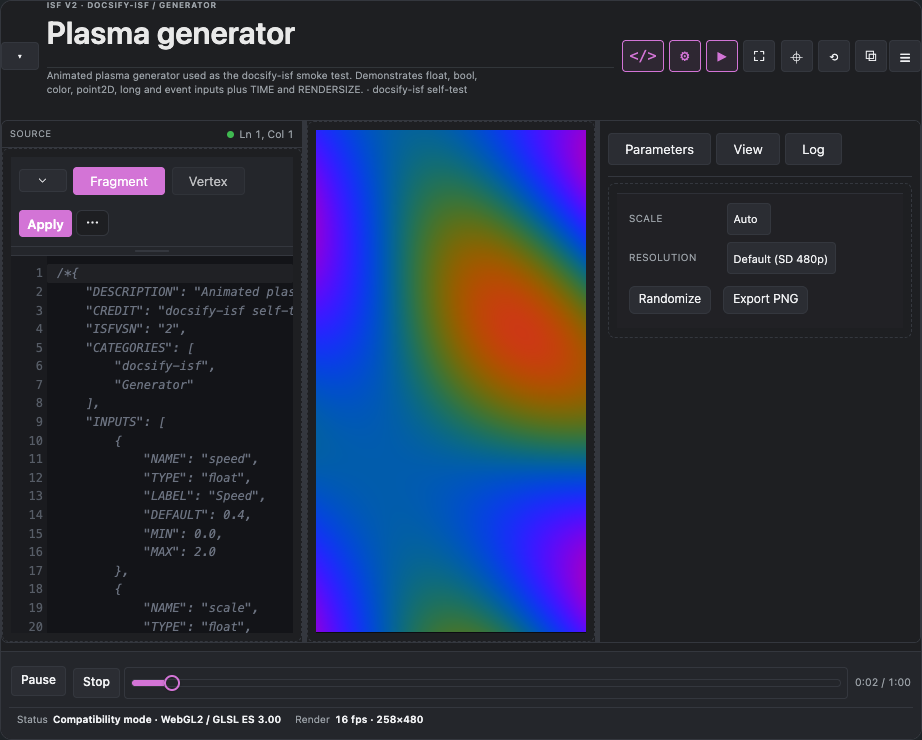
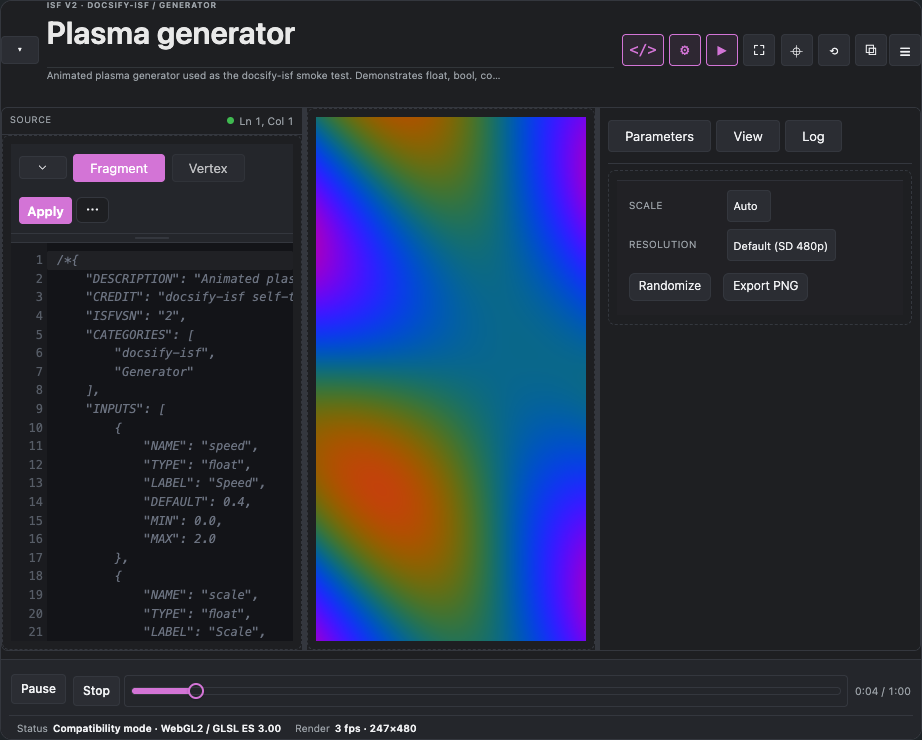
perf(ui): reclaim chrome space and document runtime budgets

diff --git a/src/plugin.src.js b/src/plugin.src.js
@@ -1,5 +1,5 @@
 /*!
- * docsify-isf v1.40.1
+ * docsify-isf v1.40.2
  * Interactive Shader Format (ISF) viewer for Docsify.
  *
  * Converts markdown links to `.fs` files into interactive WebGL viewers with
@@ -48,7 +48,7 @@
     /* @isf-core:inject — the vendored kernel bundle and adapter are generated here by tools/build.mjs */
     /* @pupitre-ui:inject — the vendored PUI renderer, ISF adapter and CSS are generated here by tools/build.mjs */
 
-    var VERSION = "1.40.1";
+    var VERSION = "1.40.2";
     var VIEWER_SEQ = 0;
     var SCRIPT_SRC = (typeof document !== "undefined" && document.currentScript && document.currentScript.src) || "";
     var PUI_BASE = "";
@@ -3578,7 +3578,7 @@
             ".isf-workbench .isf-editor-wrap{height:100%;min-height:0;display:flex;flex-direction:column}",
             ".isf-workbench .isf-editor{height:auto!important;min-height:0;flex:1 1 auto}",
             ".isf-workbench .isf-panel-intro{display:none!important}",
-            ".isf-workbench .pui-workbench-description{white-space:normal;display:-webkit-box;-webkit-line-clamp:2;-webkit-box-orient:vertical;overflow:hidden;max-width:72ch}",
+            ".isf-workbench .pui-workbench-description{display:block;white-space:nowrap;overflow:hidden;text-overflow:ellipsis;max-width:72ch}",
             ".isf-workbench .pui-workbench-titlebar-toggle{min-width:28px;min-height:28px;font-size:12px}",
             ".isf-workbench .isf-params{padding:0;background:transparent}",
             ".isf-workbench .isf-editor-head{min-height:32px}",
@@ -3815,7 +3815,7 @@
             ".isf-workbench .pui-workbench-toggle,.isf-workbench .pui-workbench-action,.isf-workbench .pui-header-menu-trigger{min-width:32px;min-height:32px;padding:4px 6px!important}",
             ".isf-workbench .pui-workbench-toggle{order:1}.isf-workbench .pui-workbench-action{order:2}.isf-workbench .pui-header-menu{order:3;margin-inline-end:0;padding-inline-end:0;border-inline-end:0}",
             ".isf-workbench .pui-workbench-tools{gap:2px;align-items:center}",
-            ".isf-workbench .pui-workbench-pane.is-bottom{max-height:96px!important}",
+            ".isf-workbench .pui-workbench-pane.is-bottom{max-height:80px!important}",
             ".isf-workbench .pui-transport.is-compact{min-height:32px}",
             ".isf-workbench .pui-transport.is-compact .pui-transport-head .pui-button{min-height:30px;padding:3px 9px}",
             ".isf-workbench .pui-transport.is-compact .pui-transport-time{font-size:.66rem}",
@@ -3825,7 +3825,7 @@
             ".isf-workbench .pui-transport-head h4{display:none!important}",
             ".isf-workbench .pui-transport-head{min-height:32px;gap:6px}",
             ".isf-workbench .pui-workbench-eyebrow{margin-bottom:1px}",
-            "@media (max-width:600px){.isf-workbench .pui-workbench-toggle-label{display:none!important}.isf-workbench .pui-workbench-toggle{padding:4px 7px!important}.isf-workbench .pui-workbench-toggle-icon{font-size:15px;opacity:1}.isf-workbench .pui-workbench-pane.is-bottom{max-height:118px!important}.isf-workbench .pui-transport-loop,.isf-workbench .pui-transport select{display:none}.isf-workbench .pui-transport-controls{gap:5px}.isf-workbench .pui-transport-controls input[type=range]{flex:1 1 90px}.isf-workbench .pui-statusbar{font-size:.68rem}}",
+            "@media (max-width:600px){.isf-workbench .pui-workbench-toggle-label{display:none!important}.isf-workbench .pui-workbench-toggle{padding:4px 7px!important}.isf-workbench .pui-workbench-toggle-icon{font-size:15px;opacity:1}.isf-workbench .pui-workbench-pane.is-bottom{max-height:96px!important}.isf-workbench .pui-transport-loop,.isf-workbench .pui-transport select{display:none}.isf-workbench .pui-transport-controls{gap:5px}.isf-workbench .pui-transport-controls input[type=range]{flex:1 1 90px}.isf-workbench .pui-statusbar{font-size:.68rem}}",
             ".isf-workbench .pui-workbench-pane.is-left .pui-workbench-pane-title{display:flex;align-items:center;gap:6px}",
             ".isf-source-meta{display:none;margin-inline-start:auto;align-items:center;gap:5px;text-transform:none;letter-spacing:0;font-size:.66rem;color:var(--isf-muted);white-space:nowrap}",
             ".isf-editor-actions .isf-apply{background:var(--isf-accent);border-color:var(--isf-accent);color:var(--isf-accent-contrast);font-weight:600}",
@@ -4974,7 +4974,9 @@
                 if (moreMenuUI) { try { moreMenuUI.destroy(); } catch (error) { /* ignore */ } }
             });
         }
-        loadPUI().then(mountEditorMoreMenu, function () { /* keep Apply available */ });
+        // Mount the More menu only when the Source pane is first opened; a
+        // page with many viewers otherwise pays for hidden PUI menus.
+        loadPUI().then(function () { /* assets ready; lazy mount on Source */ }, function () { /* keep Apply available */ });
         var selectionHandler = function () {
             if (document.activeElement === textarea) scheduleCaret();
         };
@@ -5155,6 +5157,7 @@
             applyFontSize: applyFontSize,
             value: function () { return textarea.value; },
             setStatus: setStatus,
+            mountMoreMenu: function () { mountEditorMoreMenu(); },
             toggleToolbar: function () { setToolbarCollapsed(!toolbarCollapsed, true); },
             folded: function () { return toolbarCollapsed; },
             refreshFold: refreshFold,
@@ -6113,9 +6116,6 @@
             status.className = "isf-status" + (viewer.statusText ? "" : " isf-hidden") +
                 (kind ? " is-" + kind : "");
             statusText.textContent = viewer.statusText;
-            if (viewer.puiWorkbench) {
-                try { viewer.puiWorkbench.ui.apply(); } catch (error) { /* ignore */ }
-            }
             if (viewer.applyPUIWorkbench) viewer.applyPUIWorkbench();
         };
         viewer.warn = function (message) {
@@ -6218,6 +6218,7 @@
                 window.__isfActiveSourceEditor = viewer;
                 viewer.editorOpen = true;
                 viewer.inspectorImport = false;
+                if (viewer.editor && viewer.editor.mountMoreMenu) viewer.editor.mountMoreMenu();
                 setEditorPanel();
                 viewer.applyPUIWorkbench();
                 focusEditor();
@@ -6861,7 +6862,7 @@
                         left: {title: "Source", icon: "</>", width: {initial: 300, min: 260, max: 520}, collapsible: true, open_bind: "/isf/ui/editorOpen"},
                         stage: {title: "Preview", fit: "contain", min_width: 280},
                         right: {title: "Parameters", icon: "⚙", width: {initial: 320, min: 280, max: 560}, collapsible: true, tabs: ["Parameters", "View", "Log"], open_bind: "/isf/ui/inspectorOpen"},
-                        bottom: {title: "Playback", icon: "▶", height: 96, collapsible: false, open_bind: "/isf/ui/playbackOpen"}
+                        bottom: {title: "Playback", icon: "▶", height: 80, collapsible: false, open_bind: "/isf/ui/playbackOpen"}
                     },
                     sections: [
                         {
@@ -6917,8 +6918,12 @@
         };
 
         viewer.applyPUIWorkbench = function () {
-            if (!viewer.puiWorkbench) return;
-            try { viewer.puiWorkbench.ui.apply(); } catch (error) { /* ignore */ }
+            if (!viewer.puiWorkbench || viewer._puiWorkbenchFrame) return;
+            viewer._puiWorkbenchFrame = requestAnimationFrame(function () {
+                viewer._puiWorkbenchFrame = 0;
+                if (viewer.disposed || !viewer.puiWorkbench) return;
+                try { viewer.puiWorkbench.ui.apply(); } catch (error) { /* ignore */ }
+            });
         };
 
         viewer.mountWorkbench = function () {

diff --git a/docsify-isf.js b/docsify-isf.js
@@ -1,5 +1,5 @@
 /*!
- * docsify-isf v1.40.1
+ * docsify-isf v1.40.2
  * Interactive Shader Format (ISF) viewer for Docsify.
  *
  * Converts markdown links to `.fs` files into interactive WebGL viewers with
@@ -3884,7 +3884,7 @@
     }
     /* @pupitre-ui:inject — the vendored PUI renderer, ISF adapter and CSS are generated here by tools/build.mjs */
 
-    var VERSION = "1.40.1";
+    var VERSION = "1.40.2";
     var VIEWER_SEQ = 0;
     var SCRIPT_SRC = (typeof document !== "undefined" && document.currentScript && document.currentScript.src) || "";
     var PUI_BASE = "";
@@ -5458,7 +5458,7 @@
             ".isf-workbench .isf-editor-wrap{height:100%;min-height:0;display:flex;flex-direction:column}",
             ".isf-workbench .isf-editor{height:auto!important;min-height:0;flex:1 1 auto}",
             ".isf-workbench .isf-panel-intro{display:none!important}",
-            ".isf-workbench .pui-workbench-description{white-space:normal;display:-webkit-box;-webkit-line-clamp:2;-webkit-box-orient:vertical;overflow:hidden;max-width:72ch}",
+            ".isf-workbench .pui-workbench-description{display:block;white-space:nowrap;overflow:hidden;text-overflow:ellipsis;max-width:72ch}",
             ".isf-workbench .pui-workbench-titlebar-toggle{min-width:28px;min-height:28px;font-size:12px}",
             ".isf-workbench .isf-params{padding:0;background:transparent}",
             ".isf-workbench .isf-editor-head{min-height:32px}",
@@ -5695,7 +5695,7 @@
             ".isf-workbench .pui-workbench-toggle,.isf-workbench .pui-workbench-action,.isf-workbench .pui-header-menu-trigger{min-width:32px;min-height:32px;padding:4px 6px!important}",
             ".isf-workbench .pui-workbench-toggle{order:1}.isf-workbench .pui-workbench-action{order:2}.isf-workbench .pui-header-menu{order:3;margin-inline-end:0;padding-inline-end:0;border-inline-end:0}",
             ".isf-workbench .pui-workbench-tools{gap:2px;align-items:center}",
-            ".isf-workbench .pui-workbench-pane.is-bottom{max-height:96px!important}",
+            ".isf-workbench .pui-workbench-pane.is-bottom{max-height:80px!important}",
             ".isf-workbench .pui-transport.is-compact{min-height:32px}",
             ".isf-workbench .pui-transport.is-compact .pui-transport-head .pui-button{min-height:30px;padding:3px 9px}",
             ".isf-workbench .pui-transport.is-compact .pui-transport-time{font-size:.66rem}",
@@ -5705,7 +5705,7 @@
             ".isf-workbench .pui-transport-head h4{display:none!important}",
             ".isf-workbench .pui-transport-head{min-height:32px;gap:6px}",
             ".isf-workbench .pui-workbench-eyebrow{margin-bottom:1px}",
-            "@media (max-width:600px){.isf-workbench .pui-workbench-toggle-label{display:none!important}.isf-workbench .pui-workbench-toggle{padding:4px 7px!important}.isf-workbench .pui-workbench-toggle-icon{font-size:15px;opacity:1}.isf-workbench .pui-workbench-pane.is-bottom{max-height:118px!important}.isf-workbench .pui-transport-loop,.isf-workbench .pui-transport select{display:none}.isf-workbench .pui-transport-controls{gap:5px}.isf-workbench .pui-transport-controls input[type=range]{flex:1 1 90px}.isf-workbench .pui-statusbar{font-size:.68rem}}",
+            "@media (max-width:600px){.isf-workbench .pui-workbench-toggle-label{display:none!important}.isf-workbench .pui-workbench-toggle{padding:4px 7px!important}.isf-workbench .pui-workbench-toggle-icon{font-size:15px;opacity:1}.isf-workbench .pui-workbench-pane.is-bottom{max-height:96px!important}.isf-workbench .pui-transport-loop,.isf-workbench .pui-transport select{display:none}.isf-workbench .pui-transport-controls{gap:5px}.isf-workbench .pui-transport-controls input[type=range]{flex:1 1 90px}.isf-workbench .pui-statusbar{font-size:.68rem}}",
             ".isf-workbench .pui-workbench-pane.is-left .pui-workbench-pane-title{display:flex;align-items:center;gap:6px}",
             ".isf-source-meta{display:none;margin-inline-start:auto;align-items:center;gap:5px;text-transform:none;letter-spacing:0;font-size:.66rem;color:var(--isf-muted);white-space:nowrap}",
             ".isf-editor-actions .isf-apply{background:var(--isf-accent);border-color:var(--isf-accent);color:var(--isf-accent-contrast);font-weight:600}",
@@ -6854,7 +6854,9 @@
                 if (moreMenuUI) { try { moreMenuUI.destroy(); } catch (error) { /* ignore */ } }
             });
         }
-        loadPUI().then(mountEditorMoreMenu, function () { /* keep Apply available */ });
+        // Mount the More menu only when the Source pane is first opened; a
+        // page with many viewers otherwise pays for hidden PUI menus.
+        loadPUI().then(function () { /* assets ready; lazy mount on Source */ }, function () { /* keep Apply available */ });
         var selectionHandler = function () {
             if (document.activeElement === textarea) scheduleCaret();
         };
@@ -7035,6 +7037,7 @@
             applyFontSize: applyFontSize,
             value: function () { return textarea.value; },
             setStatus: setStatus,
+            mountMoreMenu: function () { mountEditorMoreMenu(); },
             toggleToolbar: function () { setToolbarCollapsed(!toolbarCollapsed, true); },
             folded: function () { return toolbarCollapsed; },
             refreshFold: refreshFold,
@@ -7993,9 +7996,6 @@
             status.className = "isf-status" + (viewer.statusText ? "" : " isf-hidden") +
                 (kind ? " is-" + kind : "");
             statusText.textContent = viewer.statusText;
-            if (viewer.puiWorkbench) {
-                try { viewer.puiWorkbench.ui.apply(); } catch (error) { /* ignore */ }
-            }
             if (viewer.applyPUIWorkbench) viewer.applyPUIWorkbench();
         };
         viewer.warn = function (message) {
@@ -8098,6 +8098,7 @@
                 window.__isfActiveSourceEditor = viewer;
                 viewer.editorOpen = true;
                 viewer.inspectorImport = false;
+                if (viewer.editor && viewer.editor.mountMoreMenu) viewer.editor.mountMoreMenu();
                 setEditorPanel();
                 viewer.applyPUIWorkbench();
                 focusEditor();
@@ -8741,7 +8742,7 @@
                         left: {title: "Source", icon: "</>", width: {initial: 300, min: 260, max: 520}, collapsible: true, open_bind: "/isf/ui/editorOpen"},
                         stage: {title: "Preview", fit: "contain", min_width: 280},
                         right: {title: "Parameters", icon: "⚙", width: {initial: 320, min: 280, max: 560}, collapsible: true, tabs: ["Parameters", "View", "Log"], open_bind: "/isf/ui/inspectorOpen"},
-                        bottom: {title: "Playback", icon: "▶", height: 96, collapsible: false, open_bind: "/isf/ui/playbackOpen"}
+                        bottom: {title: "Playback", icon: "▶", height: 80, collapsible: false, open_bind: "/isf/ui/playbackOpen"}
                     },
                     sections: [
                         {
@@ -8797,8 +8798,12 @@
         };
 
         viewer.applyPUIWorkbench = function () {
-            if (!viewer.puiWorkbench) return;
-            try { viewer.puiWorkbench.ui.apply(); } catch (error) { /* ignore */ }
+            if (!viewer.puiWorkbench || viewer._puiWorkbenchFrame) return;
+            viewer._puiWorkbenchFrame = requestAnimationFrame(function () {
+                viewer._puiWorkbenchFrame = 0;
+                if (viewer.disposed || !viewer.puiWorkbench) return;
+                try { viewer.puiWorkbench.ui.apply(); } catch (error) { /* ignore */ }
+            });
         };
 
         viewer.mountWorkbench = function () {

diff --git a/README.md b/README.md
@@ -251,7 +251,7 @@ renderer, the source editor/import surface, the View controls and the ISF
 values.
 
 The workbench title bar labels the shader with an ISF **eyebrow**, its
-**title** and ISF **description**, and adds a PUI 1.13.1 **collapsible title
+**title** and ISF **description**, and adds a PUI 1.13.2 **collapsible title
 bar**. Pane toggles and direct actions are icon-only (`</>`, `⚙`, `▶`,
 fullscreen, focus, reset, share, menu) with accessible names/tooltips, keeping
 one compact controls row at every width. Collapsing
@@ -274,8 +274,8 @@ one Parameters pane is open across viewers at a time, so panels never stack;
 `params:"auto"` opens Parameters for the in-view viewer only and never steals
 another open one.
 
-The renderer/adapter are vendored from the clean PUI **1.13.1** snapshot (commit
-`33c5556`). The workbench titlebar contract (`description`, collapsible
+The renderer/adapter are vendored from the clean PUI **1.13.2** snapshot (commit
+`3b4df46`). The workbench titlebar contract (`description`, collapsible
 heading, controls retained) is upstream in `spec/WORKBENCH.md`; no host
 positioning or title-bar CSS is required. Before PUI mounts — and when a shader
 header cannot be parsed — the host keeps a plain stage/header/status fallback
@@ -394,7 +394,7 @@ persist with the layout and can be overridden from the URL (`isf-res`,
   `point2D`/`color` components stay in range. Out-of-range typing is corrected
   on change and flagged with `aria-invalid` while editing.
 - The workbench titlebar shows the shader **title** and ISF **description**.
-  Its collapse control (PUI 1.13.1) hides the description and keeps a compact
+  Its collapse control (PUI 1.13.2) hides the description and keeps a compact
   title, the function buttons, pane toggles and Header menu. The Menu is the home for fullscreen,
   reset, randomize, export, share, help and source.
 - **Source** (left) and **Parameters** (right) are independently shown/hidden
@@ -463,6 +463,9 @@ captures with `node tools/ui-audit.mjs`.
 
 - One `requestAnimationFrame` loop per live viewer; offscreen viewers skip
   work and hidden tabs pause automatically.
+- Workbench state updates coalesce to one PUI apply per animation frame; the
+  editor More menu mounts only when Source is opened, and pane state is
+  host-bound instead of mirrored click listeners.
 - Rendering scale is `devicePixelRatio` capped at `maxPixelRatio` (`auto`), or
   a fixed multiplier; the fps/size/pass stats live in the Playback statusbar, never over
   the shader.

diff --git a/SDD.md b/SDD.md
@@ -407,7 +407,7 @@ The titlebar carries an ISF `eyebrow`, the shader title, ISF `DESCRIPTION`
 buttons. Pane toggles carry host glyphs and labels; phones hide the labels and
 keep the glyphs/accessible names. Collapsing hides the eyebrow/description and
 keeps a compact one-line title; the Menu, Source, Parameters and Playback
-buttons remain. This is PUI 1.13.1's `layout.titlebar` contract; the
+buttons remain. This is PUI 1.13.2's `layout.titlebar` contract; the
 host only supplies the title/description and the page's workbench document.
 The buttons are the show/hide controls for the Source and Parameters sections.
 
@@ -451,9 +451,13 @@ Density decisions:
   title bar carry identity/close); the editor toolbar is one row with Apply +
   More. More holds Revert/Copy/Import, keyboard help and snippets/templates.
 - The Playback strip hides the transport heading and any loop/rate controls the
-  host reports as unsupported, then keeps the statusbar visible. The titlebar
-  Playback toggle can collapse the whole strip; fullscreen/focus/reset/share are
-  direct titlebar actions.
+  host reports as unsupported, then keeps the statusbar visible in ~80 px. The
+  titlebar Playback toggle can collapse the whole strip; fullscreen/focus/
+  reset/share are direct titlebar actions.
+- Workbench applies coalesce to one per animation frame; the editor More PUI is
+  lazy-mounted on first Source open; pane state is host-bound instead of
+  mirrored click state. The description is one ellipsized line with the full
+  text in its tooltip/expandable titlebar.
 - At a Source pane width below 360 px the editor caret/status row is visually
   hidden; the status stays an aria-live/visually-hidden region. A compact
   status dot + `Ln x, Col y` is mirrored into the Source pane title so the

diff --git a/docs/UI_ERGONOMICS.md b/docs/UI_ERGONOMICS.md
@@ -122,10 +122,25 @@ is the subject. The phone captures are 390×844 CSS px; desktop is 1280×1000.
 - Phone stage: **~415 px** tall with Parameters open (previously ~286 px).
 - Source at 300 px keeps a `Ln x, Col y` and compile-status indicator without
   spending a full status row.
-- Playback strip: **~96 px** including the statusbar, with no dead controls;
-  editor toolbar is **one row** with Apply + More.
+- Playback strip: **~80 px** including the statusbar, with no dead controls;
+  editor toolbar is **one row** with Apply + More. The titlebar description is
+  one ellipsized line (full text in its tooltip/expandable heading).
 
 ---
+
+## 4.1 Runtime cost controls
+
+- Workbench state changes are **coalesced to one PUI apply per animation frame**;
+  the badge and transport no longer trigger separate applies.
+- The editor **More menu is mounted lazily** when Source first opens; a page
+  with many viewers otherwise pays for hidden PUI menus.
+- Pane state is host-bound through PUI `open_bind`, removing click-listener
+  mirroring and its extra state work.
+- PUI palette shortcuts are host-scoped to one active viewer, so a page with
+  many workbenches never opens multiple palettes.
+- Bare/OBS viewers opt out of parameter persistence entirely.
+- Initial lazy mount measured **2 PUI workbenches / 4 PUI roots**, with no open
+  More menus; off-screen viewers mount only when scrolled into view.
 
 ## 5. Remaining opportunities
 

diff --git a/AGENTS.md b/AGENTS.md
@@ -32,6 +32,9 @@ Start with the root [`../AGENTS.md`](../AGENTS.md), then:
 - **Command palette is host-scoped.** One document shortcut resolves the active
   viewer and opens that PUI workbench palette; never enable a global PUI palette
   shortcut on every viewer instance.
+- **Keep chrome work coalesced.** Workbench `apply()` runs at most once per
+  animation frame; lazy-mount the editor More menu and avoid per-tick duplicate
+  applies. Space defaults: one-line description, compact playback strip.
 - **Adaptive by default.** The same workbench must work with mouse, keyboard and
   touch at desktop and phone widths. Workbench/controls need 32px+ targets.
 - **Verify the whole use.** `npm test` for the contract, `npm run test:smoke`
